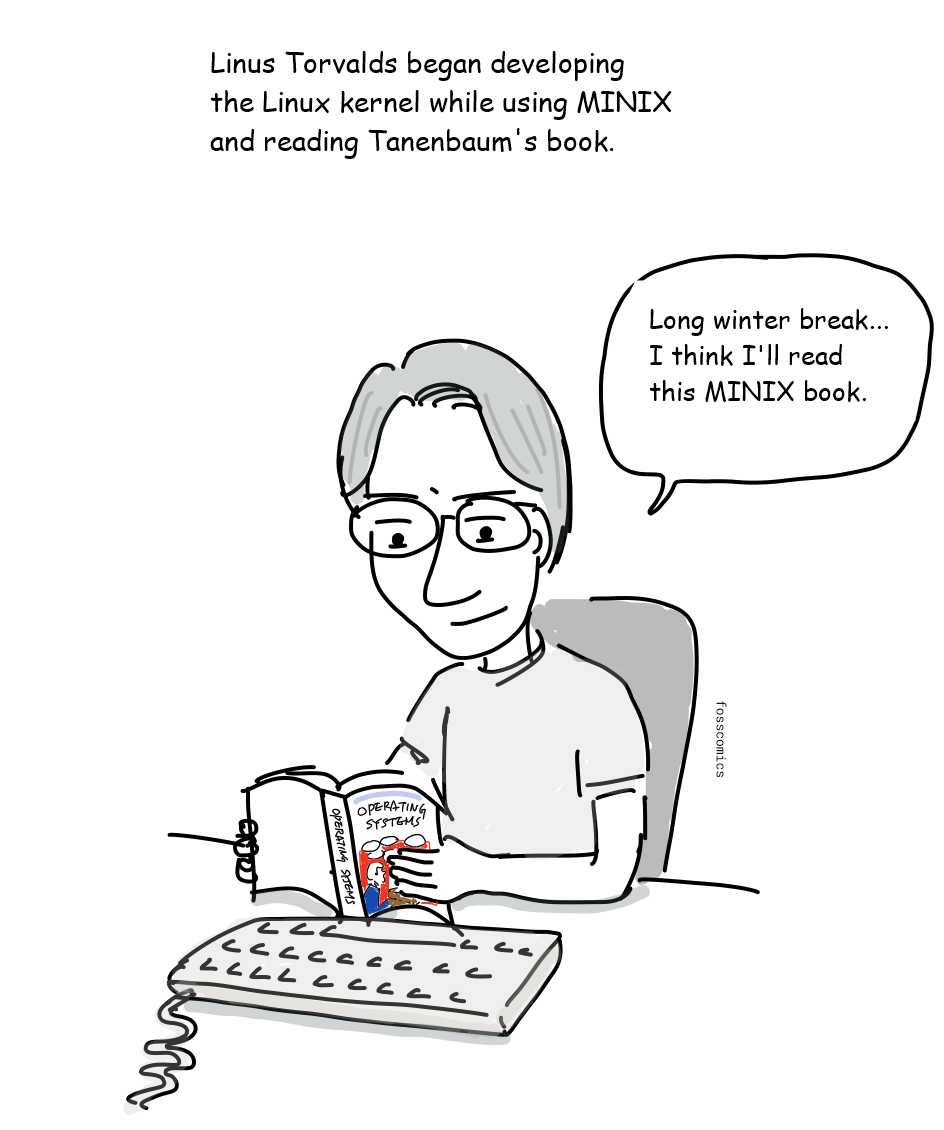
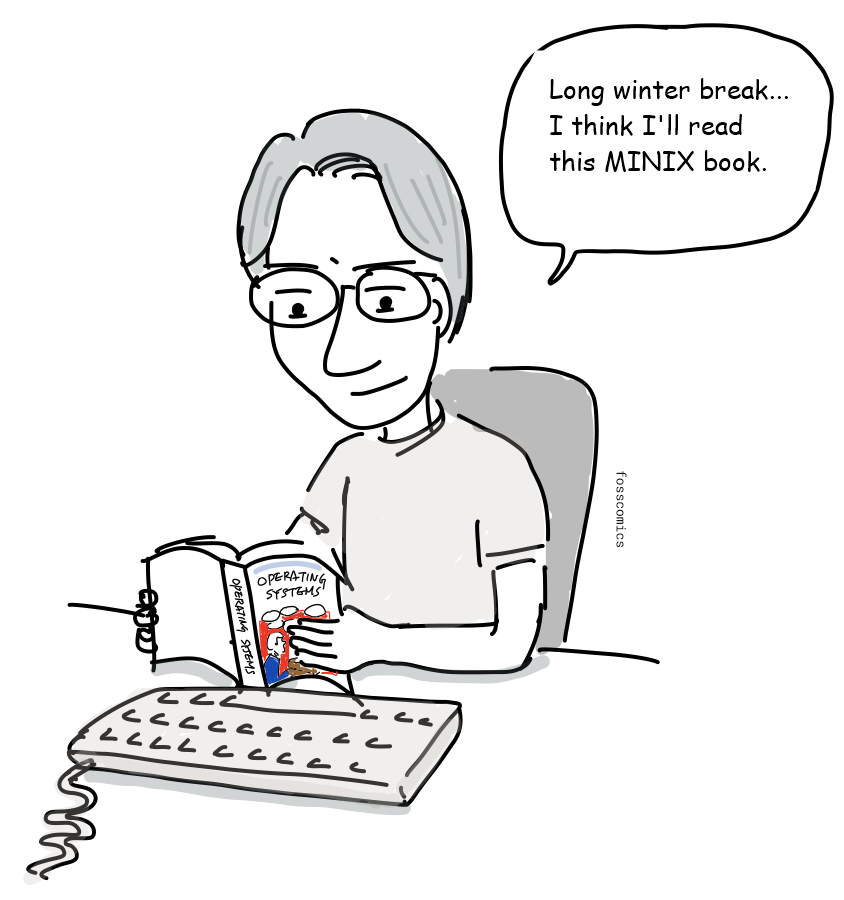
Deploy d1788cbc1363bb1c9fc1dbf69ddb1d4f274f0eaf

diff --git a/posts/9. The Unix Philosophy/index.html b/posts/9. The Unix Philosophy/index.html
@@ -140,14 +140,14 @@ flowchart TB
             
           </figure>
         </div>
-      <div class="blockquote-container image-dialogue"><blockquote><p>&quot;Maybe I should build a simple OS for teaching operating systems.&quot;</p></blockquote></div>
+      <div class="blockquote-container image-dialogue"><blockquote><p>&quot;Maybe I should build a simple OS for teaching operating systems.&quot;</p></blockquote></div><p>Linus Torvalds began developing the Linux kernel while using MINIX and reading Tanenbaum&#39;s <em>Operating Systems: Design and Implementation</em>.</p>
         <div class="image-container" style="text-align: center;">
           <figure style="text-align: center;">
             <img src="images/9_3.png" alt="Linus Torvalds reads an operating-systems textbook at a computer.">
             
           </figure>
         </div>
-      <div class="blockquote-container image-dialogue"><blockquote><p>Linus Torvalds began developing the Linux kernel while using MINIX and reading Tanenbaum&#39;s <em>Operating Systems: Design and Implementation</em>.<br>&quot;I&#39;ll read this Minix book while I wait out the long winter break.&quot;</p></blockquote></div>
+      <div class="blockquote-container image-dialogue"><blockquote><p>&quot;Long winter break... I think I&#39;ll read this MINIX book.&quot;</p></blockquote></div>
         <div class="image-container" style="text-align: center;">
           <figure style="text-align: center;">
             <img src="images/9_4.png" alt="A presenter sits beside a computer displaying the word UNIX and gestures toward it." class="sized-image" style="width: 70%;">
